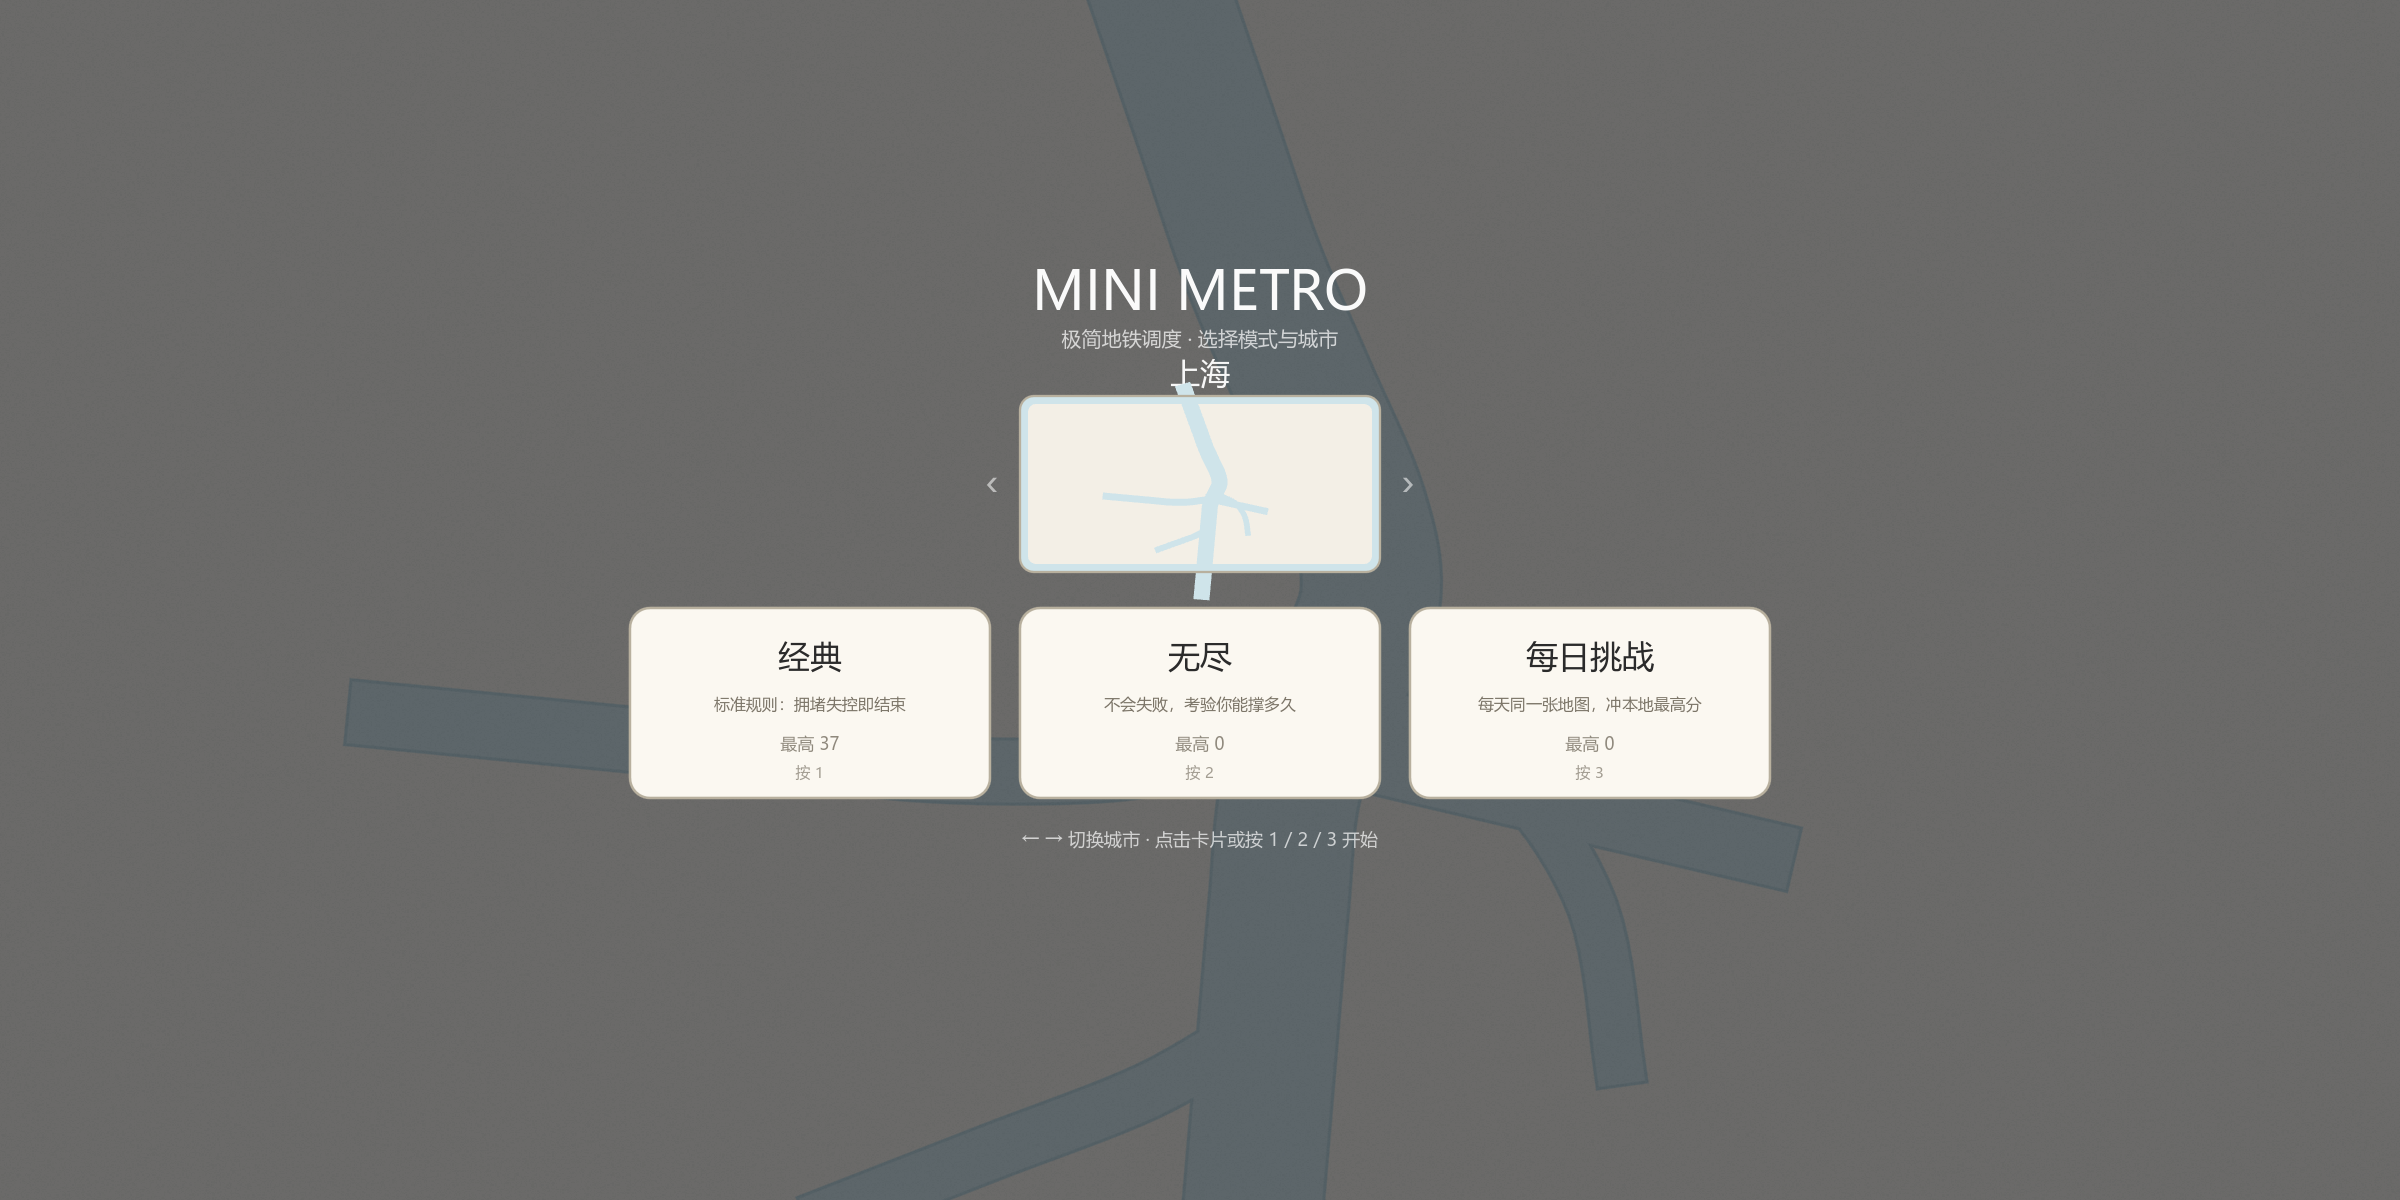
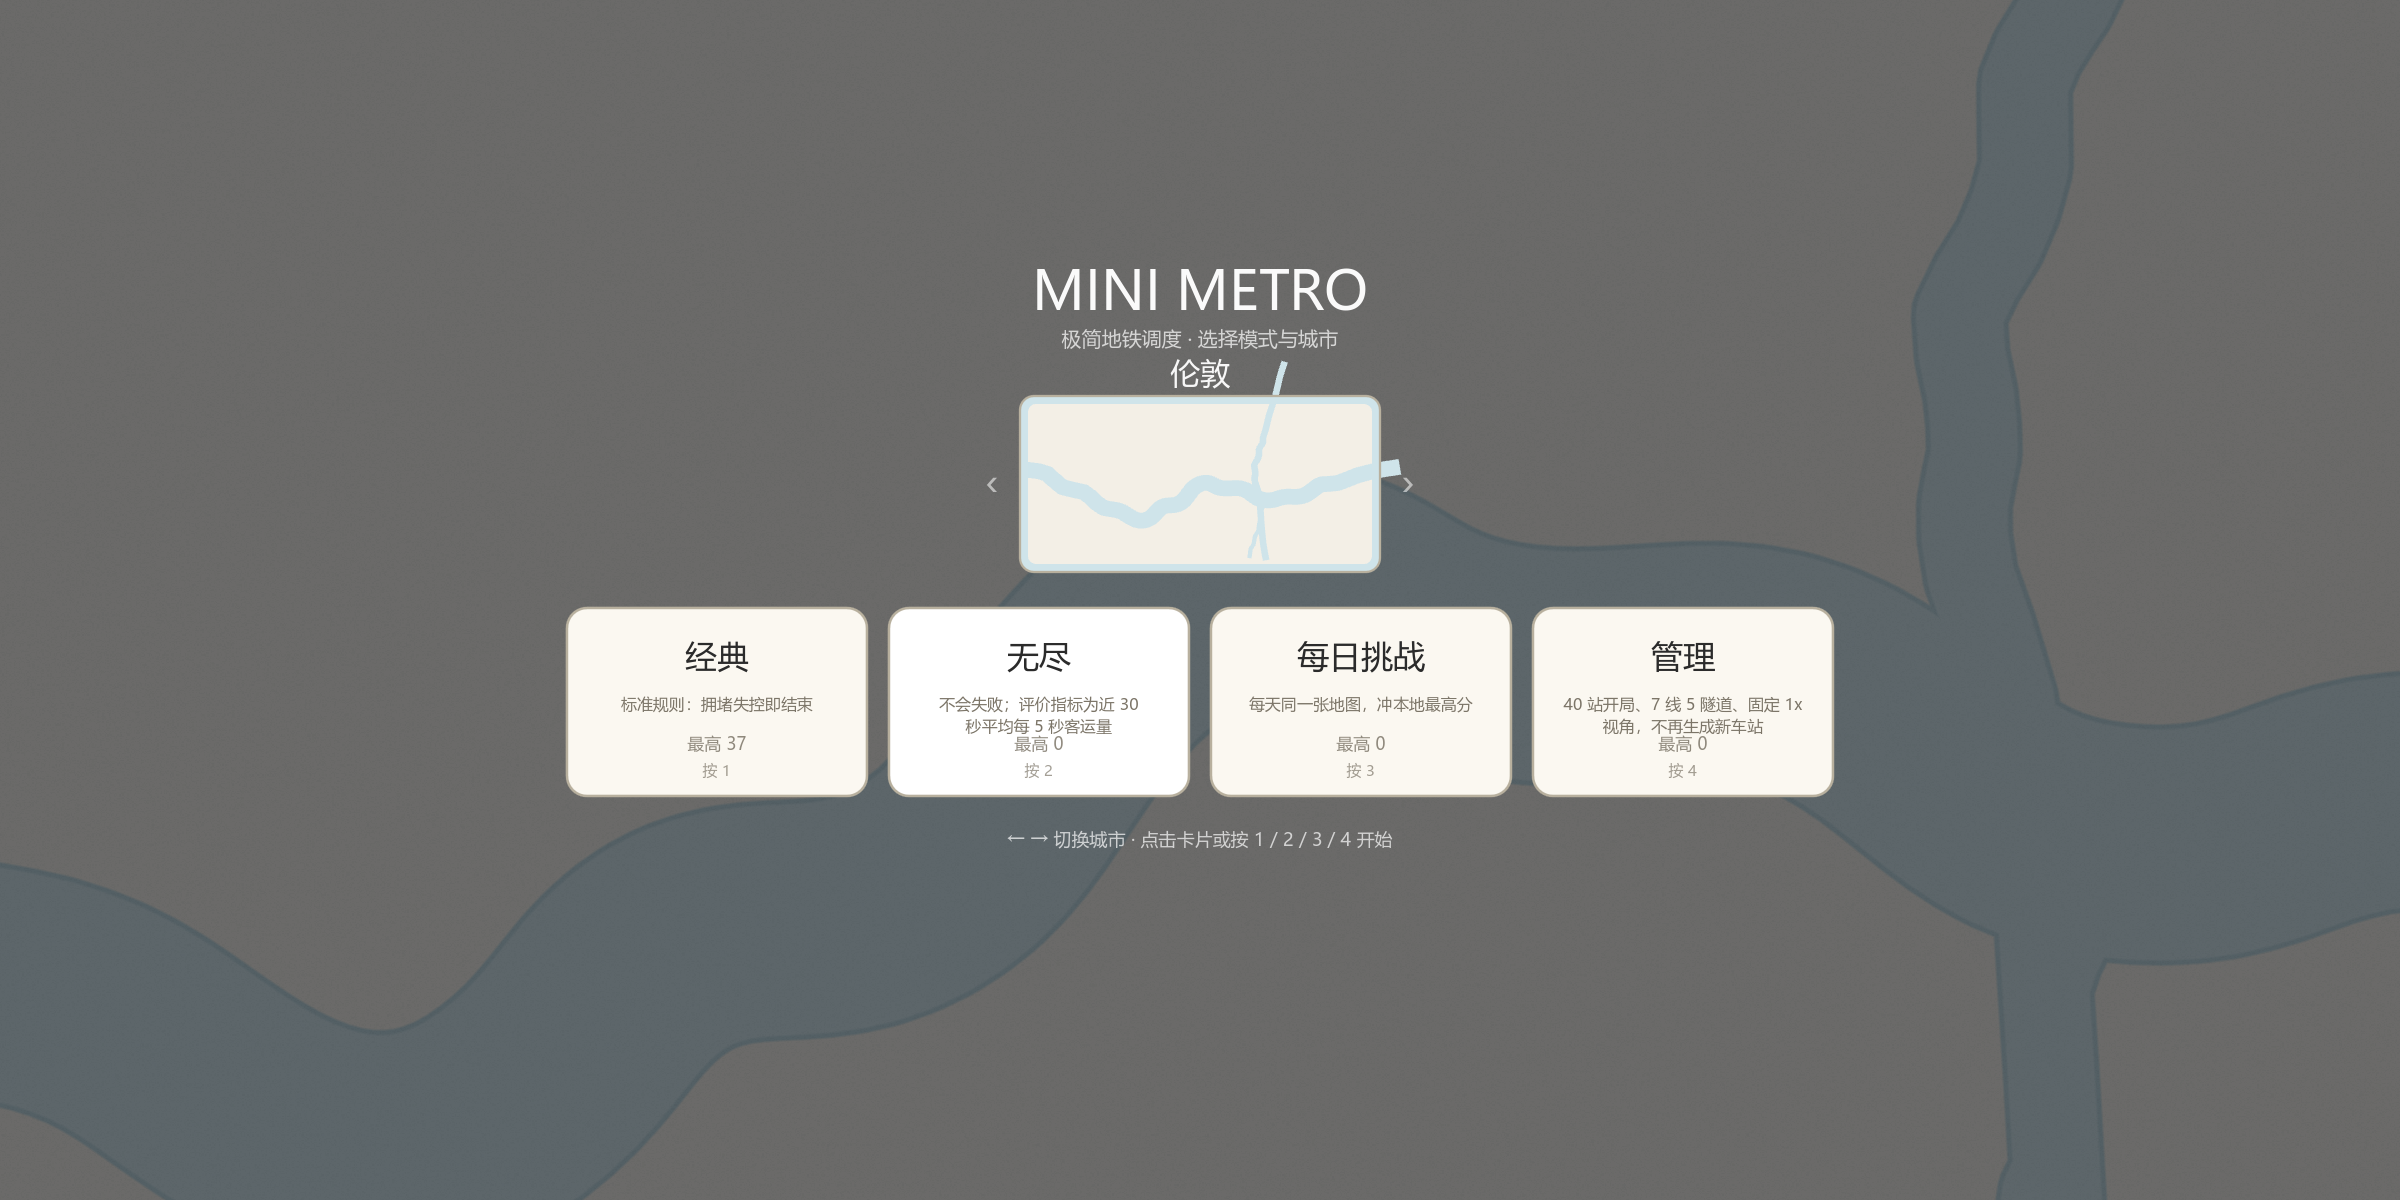
Add Manager mode and endless throughput metric
- New fourth mode "管理" (Manager): starts with 40 stations laid out on an 8x5
  jittered grid, 7 lines, 7 trains and 5 tunnels; camera is fixed at zoom 1.0;
  no new stations spawn (level.no_station_spawn); station spawner got a
  spawn_manager_layout helper.
- Mode menu expanded to four cards (keys 1-4), manager best score wired into
  save/menu; Game.start_run applies manager starting resources.
- Endless mode evaluation: Simulation records delivery timestamps and exposes
  recent_throughput_per_5s() = deliveries in last 30s / 6; HUD shows this as the
  primary endless metric (delivered count secondary).
- Fixed a GDScript type-inference parse error in spawner fallback point loop.
- tests: 699 checks (manager 40 stations/no new spawns/fixed 1x and throughput
  window); manager + menu screenshots refreshed; no export.

Changed region(s): [[0.2188, 0.3083, 0.7812, 0.7092], [0.5625, 0.37, 0.5938, 0.4008], [0.4062, 0.37, 0.4375, 0.4008]]

diff --git a/README.md b/README.md
@@ -1,7 +1,7 @@
 # MiniMetro（Godot 4.7）
 
 极简地铁调度游戏 —— *Mini Metro* 机制的致敬实现，**非官方、非 1:1 复刻**。
-当前进度：**M0 → M6 全部完成 + 7 张城市地图 + 时间/调度/环线系统 + 故事化城镇**（画线手势、八向折线、列车/乘客/换乘/送达/溢出、周抽卡、河道与桥隧（跨河虚线）、换乘站、程序化音效与反馈、三种模式、城市选择、游戏内 12 小时时钟（含星期与昼夜夜色）、可拖拽库存列车/车厢/换乘中心、拖动列车/车厢换线、可点击倍速、地标车站与分时段乘客规律、城镇发展阶段与相机从 2.0 到 1.0、存档/设置/中英双语、Windows 导出）。
+当前进度：**M0 → M6 全部完成 + 7 张城市地图 + 时间/调度/环线系统 + 故事化城镇**（画线手势、八向折线、列车/乘客/换乘/送达/溢出、周抽卡、河道与桥隧（跨河虚线）、换乘站、程序化音效与反馈、四种模式（含管理模式）、城市选择、游戏内 12 小时时钟（含星期与昼夜夜色）、可拖拽库存列车/车厢/换乘中心、拖动列车/车厢换线、可点击倍速、地标车站与分时段乘客规律、城镇发展阶段与相机从 2.0 到 1.0、存档/设置/中英双语、Windows 导出）。
 
 ## 地标与城镇发展
 
@@ -142,7 +142,7 @@
 **模式 / 城市 / 存档 / 设置（M6）**
 
 - **7 张城市地图**：纸城 / 伦敦 / 巴黎 / 纽约 / 柏林 / 东京 / 上海，模式菜单里左右切换
-- **三种模式**：经典（会失败）、无尽（不判负）、每日挑战（同一天固定种子 + 本地当日最高分）
+- **四种模式**：经典（会失败）、无尽（不判负，评价指标为近 30 秒平均每 5 秒客运量）、每日挑战（同一天固定种子 + 本地当日最高分）、管理（40 站开局、7 线 5 隧道、固定 1x、不再生成新站）
 - **存档** `user://profile.json`：各模式最高分、每日成绩、设置（音量/全屏/语言）、上次选择的城市
 - **暂停/设置菜单**（`Esc`）：主音量、音乐音量、全屏、语言（中文 / English）、重新开始、返回模式选择
 - **中英双语**：HUD、模式菜单、升级卡、提示全部走 `Loc` 双语表
@@ -157,6 +157,10 @@
 ### 模式选择（可切换城市）
 
 ![模式选择](docs/images/m6-menu.png)
+
+### 管理模式（40 站 / 7 线 / 5 隧道 / 固定 1x / 不生成新站）
+
+![管理模式](docs/images/manager.png)
 
 ### 暂停 / 设置
 
@@ -253,7 +257,7 @@
 & "...\Godot_v4.7.2-stable_win64.exe" --path .
 ```
 
-编辑器里按 F5 即可。启动后先进入模式选择；窗口默认 1600×900，内部按 1920×1080 设计分辨率缩放。
+编辑器里按 F5 即可。启动后先进入模式选择；窗口与设计分辨率均为 2400×1200。
 
 ## 导出（Windows）
 
@@ -272,13 +276,13 @@ $godot = "D:\Downloads\06_游戏与Flash资源\Godot_v4.7.2-stable_win64.exe\God
 ```powershell
 $godot = "D:\Downloads\06_游戏与Flash资源\Godot_v4.7.2-stable_win64.exe\Godot_v4.7.2-stable_win64_console.exe"
 & $godot --headless --path . --script res://tests/run_tests.gd
-# 期望输出：TESTS PASSED (693 checks)
+# 期望输出：TESTS PASSED (699 checks)
 ```
 
 覆盖：八向几何与弯曲翻转、弧长采样、网络增删、画线/撤销/重排/翻转/插站/停留移除手势、换乘寻路、
 自动配车、送达计分、换乘、溢出失败、周循环抽卡与资源/车厢/桥梁/换乘站生效、换乘站点选流程（含取消兜底）、
 河道检测与桥隧预算、站点避水、形状权重、程序化音频格式/长度/循环点、玩家档案与 JSON 持久化、
-模式键/每日种子稳定性、无尽模式不判负、城市地图注册表/河道几何/每张图可生成站点、
+模式键/每日种子稳定性、无尽模式不判负与近 30 秒客运量指标、管理模式 40 站/不生成新站/固定 1x、城市地图注册表/河道几何/每张图可生成站点、
 真实经纬度投影（宽高比/方向）、水域并集合并（重叠河面面积）、游戏内时间换算、
 列车/车厢跨线路拖动、环线几何/寻路/列车单向循环、环线首末手柄分开并可打开环线、
 库存列车/车厢/换乘中心的自动配车与拖放、新干线（最高速 2×）、换乘枢纽 0.3s 上下客、列车加速度上限/无人上下车直接驶过/停站时长=0.5s×人数且逐个上下/弯道限速四档（45/90/135/180）/近线未接入标记、
@@ -302,7 +306,7 @@ Start-Process -FilePath $godot -ArgumentList '--path',$PWD.Path,'--',
 
 - `--demo`：确定性布局 11 站 + 3 条线路（含两处跨河）+ 预置乘客，并先跑 8 秒模拟
 - `--pose=menu|draft|insert|riders|interchange|pick|overload|gameover|week|settings`：摆出对应姿态
-- `--mode=classic|endless|daily`：跳过模式菜单直接以指定模式开局
+- `--mode=classic|endless|daily|manager`：跳过模式菜单直接以指定模式开局
 - `--city=paper|london|paris|newyork|berlin|tokyo|shanghai`：直接指定城市
 - `--lang=en`：临时切英文界面（不写存档）
 - `--seed=12345` / `--smoke=900`：固定种子 / 无渲染跑 tick 后打印状态
@@ -316,7 +320,7 @@ Start-Process -FilePath $godot -ArgumentList '--path',$PWD.Path,'--',
 | 操作 | 作用 |
 |---|---|
 | 模式菜单：`←` / `→` 或点箭头 | 切换城市 |
-| 模式菜单：`1` `2` `3` 或点卡片 | 选择模式并开始 |
+| 模式菜单：`1` `2` `3` `4` 或点卡片 | 选择模式并开始 |
 | 拖动列车到其它线路/位置 | 先停靠最近站让乘客全部下车，再移动到目标位置（目标处显示浅色车） |
 | 按住车厢拖动 | 把车厢挂到另一列车 / 线路 |
 | 点击右下角 `1x` `2x` `3x` | 倍速 |
@@ -384,7 +388,7 @@ view/                     表现层（Node2D，只读模型）
 input/line_editor.gd      画线手势状态机（IDLE / DRAFT / REORDER / SEGMENT）+ Esc 设置信号
 ui/hud.gd                 资源/分数、周抽卡、换乘点选、模式菜单、暂停设置、结束遮罩（双语）
 tools/demo_setup.gd       截图用确定性布局
-tests/                    headless 测试（693 checks）
+tests/                    headless 测试（699 checks）
 export_presets.cfg        Windows Desktop 导出预设
 art/shaders/paper_grain.gdshader  极轻纸纹
 docs/设计方案.md           完整实现方案（机制拆解 / 架构 / 里程碑）

diff --git a/docs/设计方案.md b/docs/设计方案.md
@@ -11,7 +11,7 @@
 > **实施进度（2026-11-17）**：**M0 → M6 全部完成，并追加 7 张城市地图 + 库存资源/环线系统**。画线手势、八向折线（含轻点翻转方向）、
 > 拖线段插入车站、画线停留 1.5s 移出任意站（含端点站，不限相邻）、列车/乘客/换乘/送达/溢出、车内乘客显示、每周抽卡、
 > 河道多边形 + 桥隧预算（跨河段虚线）、换乘站（容量 12）、站点形状权重与避水生成、
-> 程序化音效与氛围音乐、送达飘字与超载扩散环、三种模式（经典/无尽/每日挑战）、
+> 程序化音效与氛围音乐、送达飘字与超载扩散环、四种模式（经典/无尽/每日挑战/管理）、
 > **城市地图按真实城市 WGS84 经纬度投影（河道并集渲染，重叠处无接缝）**、
 > **12 小时昼夜时针（含星期）+ 地图夜色滤镜**、**列车/车厢/换乘中心改为库存资源（图标拖放到地图）**、
 > **列车运动学（加减速不突变、弯道 45/90/135/180 四档限速、0.5s/人逐个上下、无人上下车直接驶过）**、
@@ -21,7 +21,7 @@
 > **城镇五阶段发展（开局固定 3 站，形状逐步解锁、相机 2.0→1.0）**、**2400×1200 窗口/大地图与更多水系**、
 > 列车放大 1.5 倍并绘制车头、可点击倍速、
 > **初始 3 条 / 上限 7 条线路**、**闭合环线（列车单向循环、接缝处首末手柄分开）**、
-> 存档与设置、中英双语、Windows 导出。headless 测试 693 checks 全通过，截图见 `docs/images/`。
+> 存档与设置、中英双语、Windows 导出。headless 测试 699 checks 全通过，截图见 `docs/images/`。
 > 运行/测试/导出说明见 [README](../README.md)。
 
 ---
